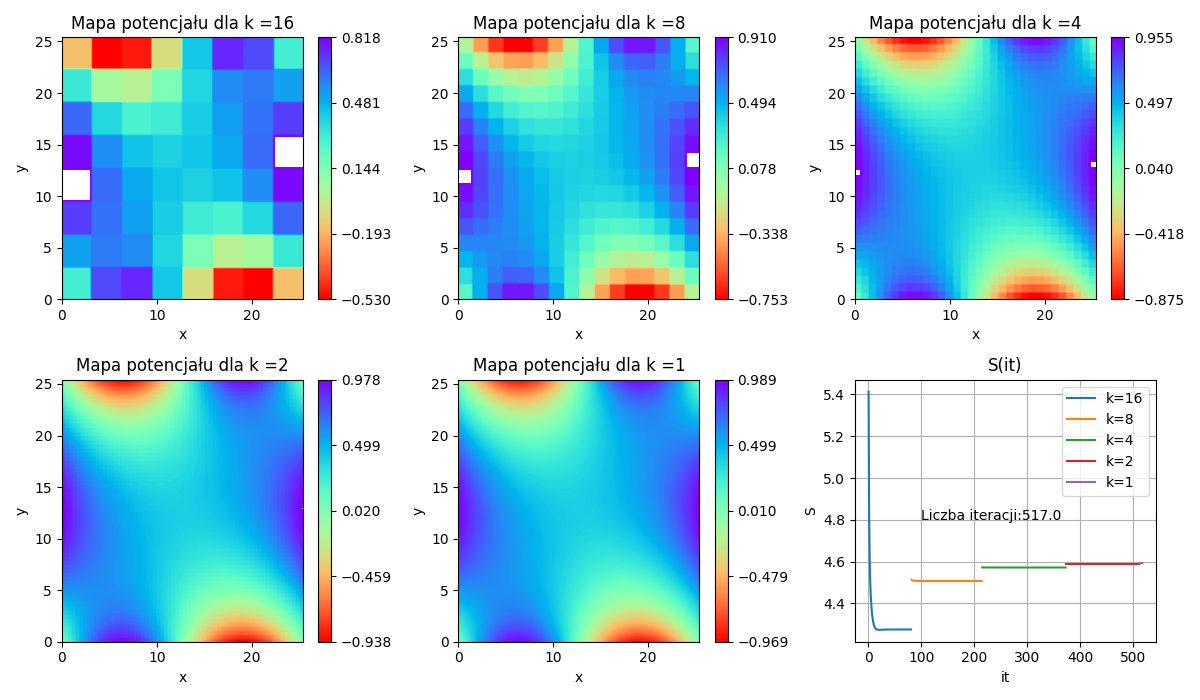
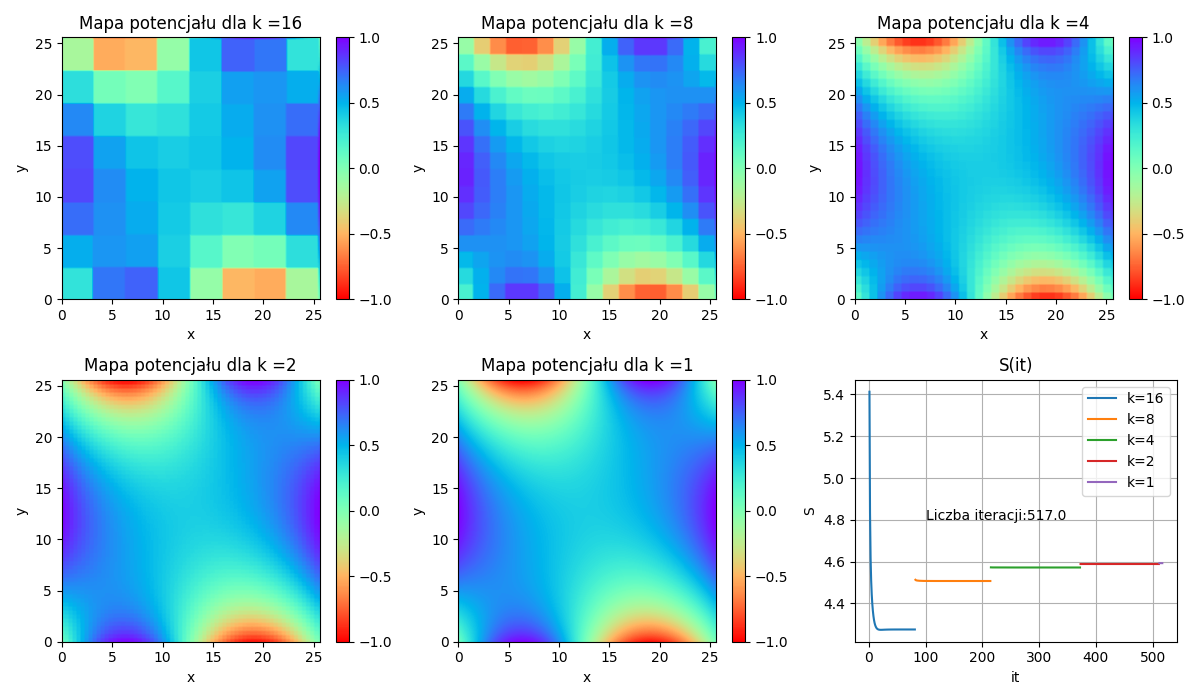
Add files via upload

diff --git a/lab5/main.py b/lab5/main.py
@@ -21,12 +21,30 @@ plt.legend()
 
 for i in range(len(k)):
     plt.subplot(2, 3, i+1) 
-    #plt.figure()
     a=k[i]
+    pkt=[]
+    z=[]
+    x=0
+    #plt.figure()
     plt.title(f"Mapa potencjału dla k ={a}")
-    data=np.loadtxt(f"k{a}.txt")  
-
-    plt.tricontourf(data[:,0],data[:,1],data[:,2],levels=np.linspace(np.min(data[:, 2]), np.max(data[:, 2]), 999),
+    data=np.loadtxt(f"k{a}.txt")
+   
+    pkt=[]
+    for j in range (0,129):
+        pkt.append([])
+        for l in range (0,129):
+            pkt[j].append(data[:,2][x])
+            x+=1 
+    print(len(pkt[0]))
+    for j in range (0,129):
+        for l in range (0,129):  
+            if j==128 or l==128:
+                z.append(pkt[j][l])  
+            else:  
+                z.append((pkt[(j//a)*a][(l//a)*a]+pkt[(j//a)*a+a][(l//a)*a+a])/2) 
+                 
+       
+    plt.tricontourf(data[:,0],data[:,1],z,levels=np.linspace(np.min(data[:, 2]), np.max(data[:, 2]), 999),
                        cmap='rainbow_r')
     plt.colorbar(ticks=np.linspace(min(data[:, 2]), max(data[:, 2]),5))
     plt.tight_layout() 

diff --git a/lab5/main.cpp b/lab5/main.cpp
@@ -69,9 +69,9 @@ int main()
         plik_s[l].close();
 
         //wpisujemy mape potencjalu
-        for(i=0;i<(nx);i++)
-            for(j=0;j<(ny);j++)
-                plik[l]<<delta*i<<"\t"<<delta*j<<"\t"<<(v[i/k*k][j/k*k]+v[i/k*k+k][j/k*k+k])/2<<endl;
+        for(i=0;i<(nx+1);i++)
+            for(j=0;j<(ny+1);j++)
+                plik[l]<<delta*i<<"\t"<<delta*j<<"\t"<<(v[i][j])<<endl;
 
         plik[l].close();
         
